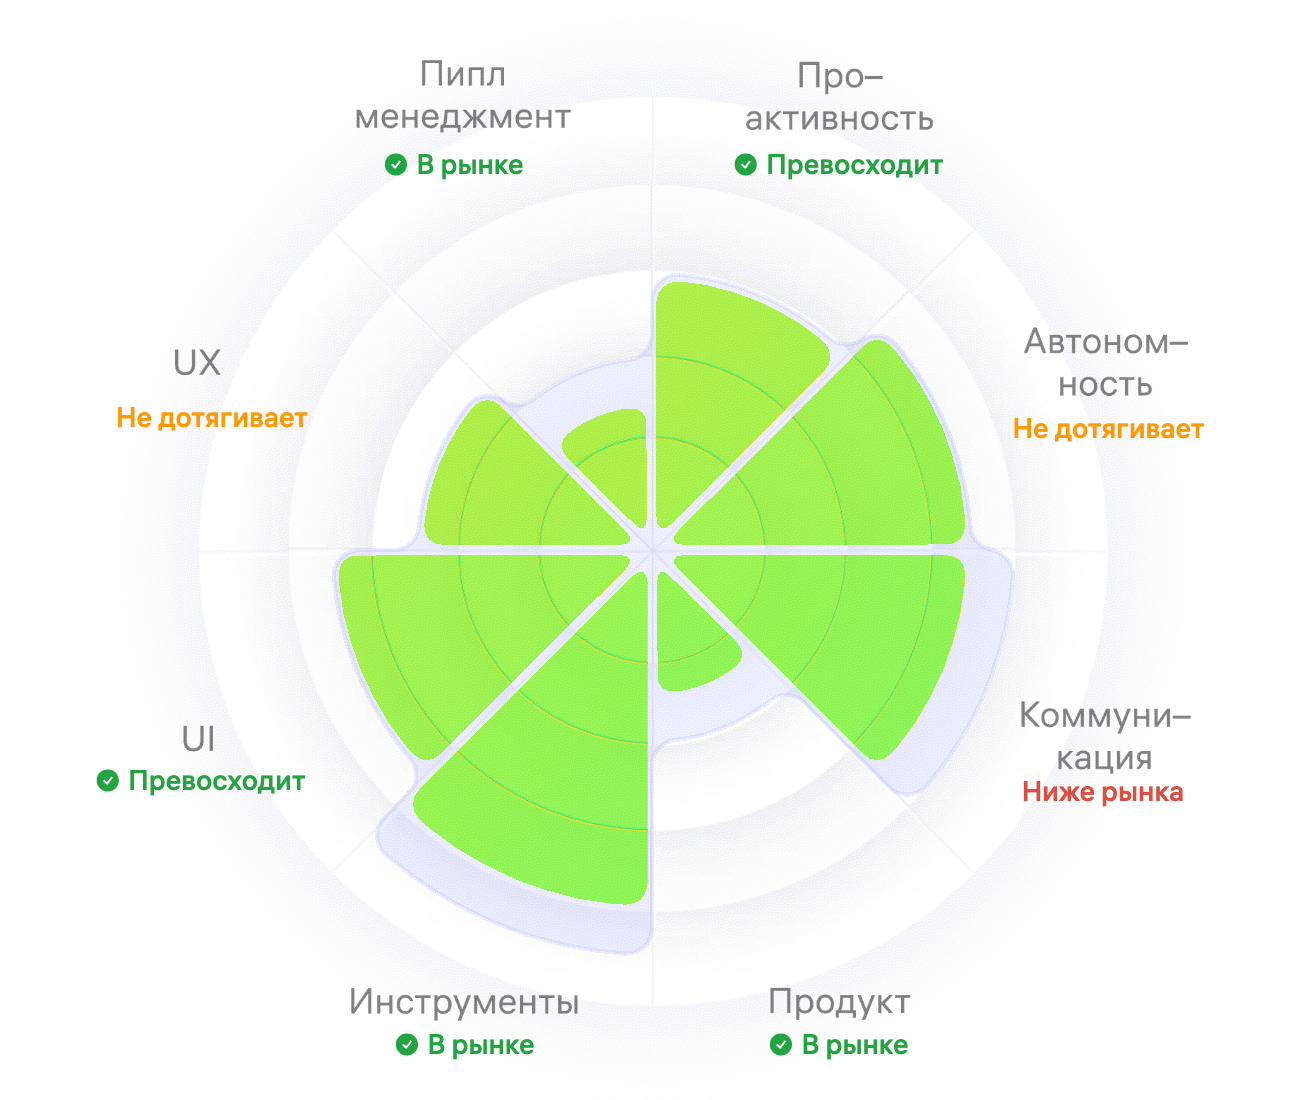
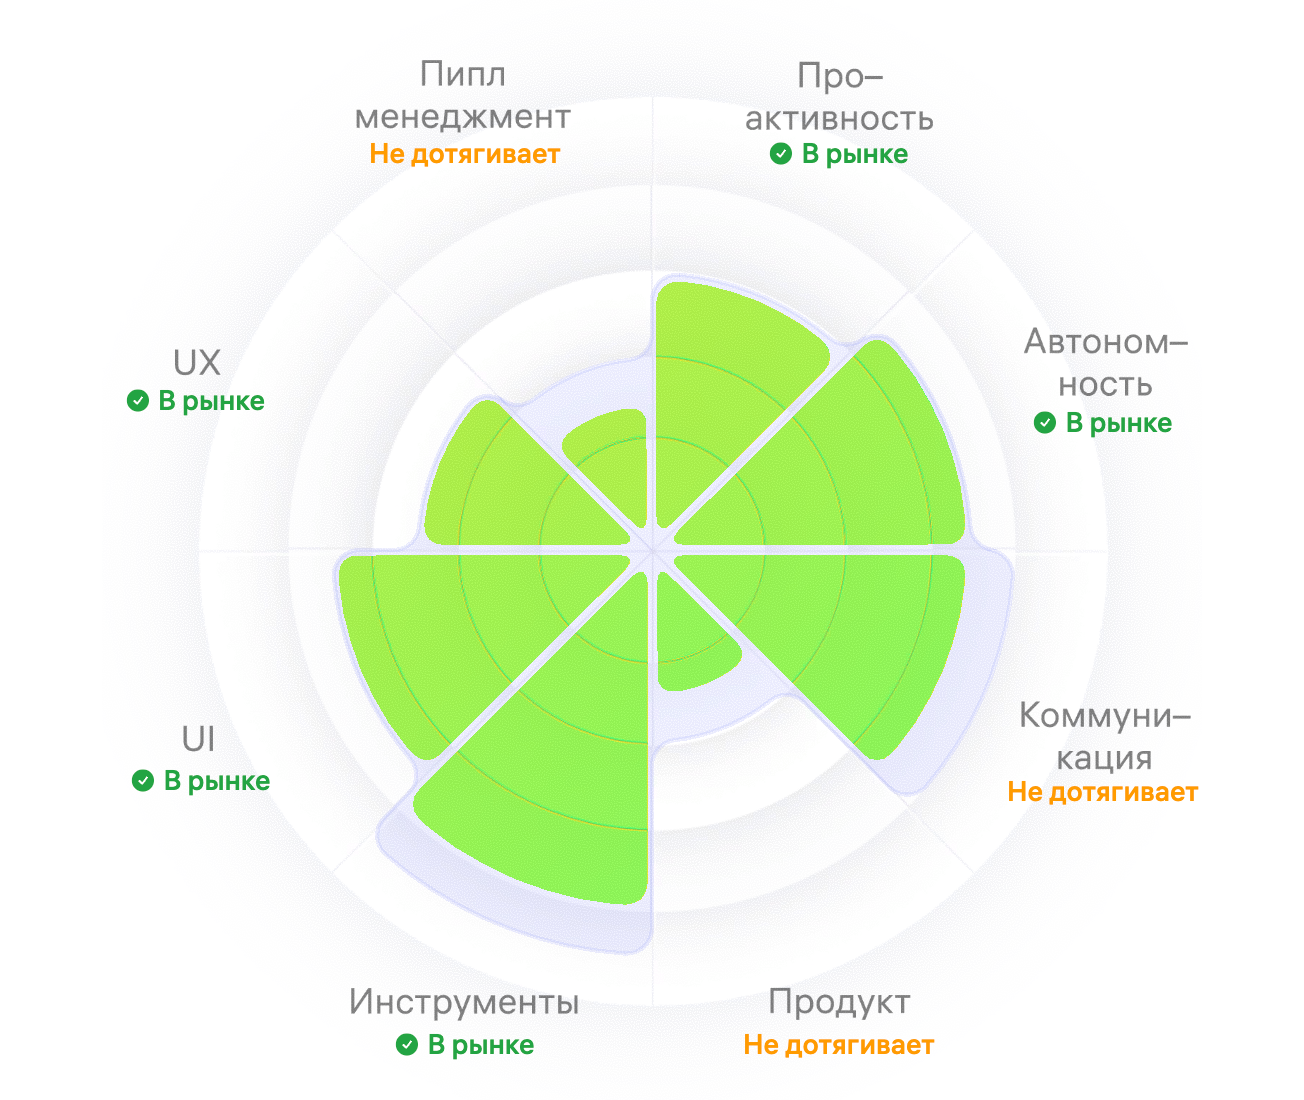
Hot update

diff --git a/src/components/UnityContainer/UnityContainer.tsx b/src/components/UnityContainer/UnityContainer.tsx
@@ -18,38 +18,60 @@ const MockData = () => {
     return (
         <>
             <div className="max-md:hidden absolute top-0 left-0 w-full h-full">
-                <div className="absolute text-nowrap flex items-center justify-center" style={{ top: '15%', left: '32%', transform: 'translate(-50%, -50%)' }}>
+
+                {/* Пипл-менеджемнт */}
+                <div className="absolute text-nowrap flex items-center justify-center" style={{ top: '14%', left: '33%', transform: 'translate(-50%, -50%)' }}>
+                    {/* <IconCheck className="w-[12px] h-[12px] mr-1" /> */}
+                    {/* <p className="text-[#25A443] text-[14px] font-[500] leading-[105%]">В рынке</p> */}
+                    <p className="text-[#FF9B00] text-[14px] font-[500] leading-[105%]">Не дотягивает</p>
+                </div>
+
+                {/* Проактивность */}
+                <div className="absolute text-nowrap flex items-center justify-center" style={{ top: '14%', left: '67%', transform: 'translate(-50%, -50%)' }}>
+                    {/* <IconCheck className="w-[12px] h-[12px] mr-1" />
+                    <p className="text-[#25A443] text-[14px] font-[500] leading-[105%]">Превосходит</p> */}
                     <IconCheck className="w-[12px] h-[12px] mr-1" />
                     <p className="text-[#25A443] text-[14px] font-[500] leading-[105%]">В рынке</p>
                 </div>
 
-                <div className="absolute text-nowrap flex items-center justify-center" style={{ top: '15%', left: '67%', transform: 'translate(-50%, -50%)' }}>
+                {/* UX */}
+                <div className="absolute text-nowrap flex items-center justify-center" style={{ top: '36.5%', left: '8.5%', transform: 'translate(-50%, -50%)' }}>
+                    {/* <p className="text-[#FF9B00] text-[14px] font-[500] leading-[105%]">Не дотягивает</p> */}
                     <IconCheck className="w-[12px] h-[12px] mr-1" />
-                    <p className="text-[#25A443] text-[14px] font-[500] leading-[105%]">Превосходит</p>
+                    <p className="text-[#25A443] text-[14px] font-[500] leading-[105%]">В рынке</p>
                 </div>
 
-                <div className="absolute text-nowrap flex items-center justify-center" style={{ top: '38%', left: '10%', transform: 'translate(-50%, -50%)' }}>
-                    <p className="text-[#FF9B00] text-[14px] font-[500] leading-[105%]">Не дотягивает</p>
-                </div>
-                <div className="absolute text-nowrap flex items-center justify-center" style={{ top: '39%', left: '91.5%', transform: 'translate(-50%, -50%)' }}>
-                    <p className="text-[#FF9B00] text-[14px] font-[500] leading-[105%]">Не дотягивает</p>
+                {/* Автономность */}
+                <div className="absolute text-nowrap flex items-center justify-center" style={{ top: '38.5%', left: '91%', transform: 'translate(-50%, -50%)' }}>
+                    {/* <p className="text-[#FF9B00] text-[14px] font-[500] leading-[105%]">Не дотягивает</p> */}
+                    <IconCheck className="w-[12px] h-[12px] mr-1" />
+                    <p className="text-[#25A443] text-[14px] font-[500] leading-[105%]">В рынке</p>
                 </div>
 
+                {/* UI */}
                 <div className="absolute text-nowrap flex items-center justify-center" style={{ top: '71%', left: '9%', transform: 'translate(-50%, -50%)' }}>
+                    {/* <IconCheck className="w-[12px] h-[12px] mr-1" />
+                    <p className="text-[#25A443] text-[14px] font-[500] leading-[105%]">Превосходит</p> */}
                     <IconCheck className="w-[12px] h-[12px] mr-1" />
-                    <p className="text-[#25A443] text-[14px] font-[500] leading-[105%]">Превосходит</p>
-                </div>
-                <div className="absolute text-nowrap flex items-center justify-center" style={{ top: '72%', left: '91%', transform: 'translate(-50%, -50%)' }}>
-                    <p className="text-[#DA5041] text-[14px] font-[500] leading-[105%]">Ниже рынка</p>
+                    <p className="text-[#25A443] text-[14px] font-[500] leading-[105%]">В рынке</p>
                 </div>
 
+                {/* Коммуникация */}
+                <div className="absolute text-nowrap flex items-center justify-center" style={{ top: '72%', left: '91%', transform: 'translate(-50%, -50%)' }}>
+                    <p className="text-[#FF9B00] text-[14px] font-[500] leading-[105%]">Не дотягивает</p>
+                </div>
+
+                {/* Инструменты */}
                 <div className="absolute text-nowrap flex items-center justify-center" style={{ top: '95%', left: '33%', transform: 'translate(-50%, -50%)' }}>
                     <IconCheck className="w-[12px] h-[12px] mr-1" />
                     <p className="text-[#25A443] text-[14px] font-[500] leading-[105%]">В рынке</p>
                 </div>
+
+                {/* Продукт */}
                 <div className="absolute text-nowrap flex items-center justify-center" style={{ top: '95%', left: '67%', transform: 'translate(-50%, -50%)' }}>
-                    <IconCheck className="w-[12px] h-[12px] mr-1" />
-                    <p className="text-[#25A443] text-[14px] font-[500] leading-[105%]">В рынке</p>
+                    {/* <IconCheck className="w-[12px] h-[12px] mr-1" /> */}
+                    {/* <p className="text-[#25A443] text-[14px] font-[500] leading-[105%]">В рынке</p> */}
+                    <p className="text-[#FF9B00] text-[14px] font-[500] leading-[105%]">Не дотягивает</p>
                 </div>
             </div>
             {(window.innerWidth == 425) && (

diff --git a/src/components/Scoring/Scoring.tsx b/src/components/Scoring/Scoring.tsx
@@ -24,9 +24,7 @@ const Scoring: React.FC = () => {
             {/* <UnityContainer /> */}
             <div className="flex justify-center items-center mt-2">
                 <div className="relative w-full max-w-[550px]">
-                {/* <div className="relative w-full max-w-[550px] h-[550px] max-md:h-[350px]"> */}
                     <img src={Image} alt="" />
-                    {/* <Unity unityContext={unityContext} className="w-full h-full" /> */}
                 </div>
             </div>
 
